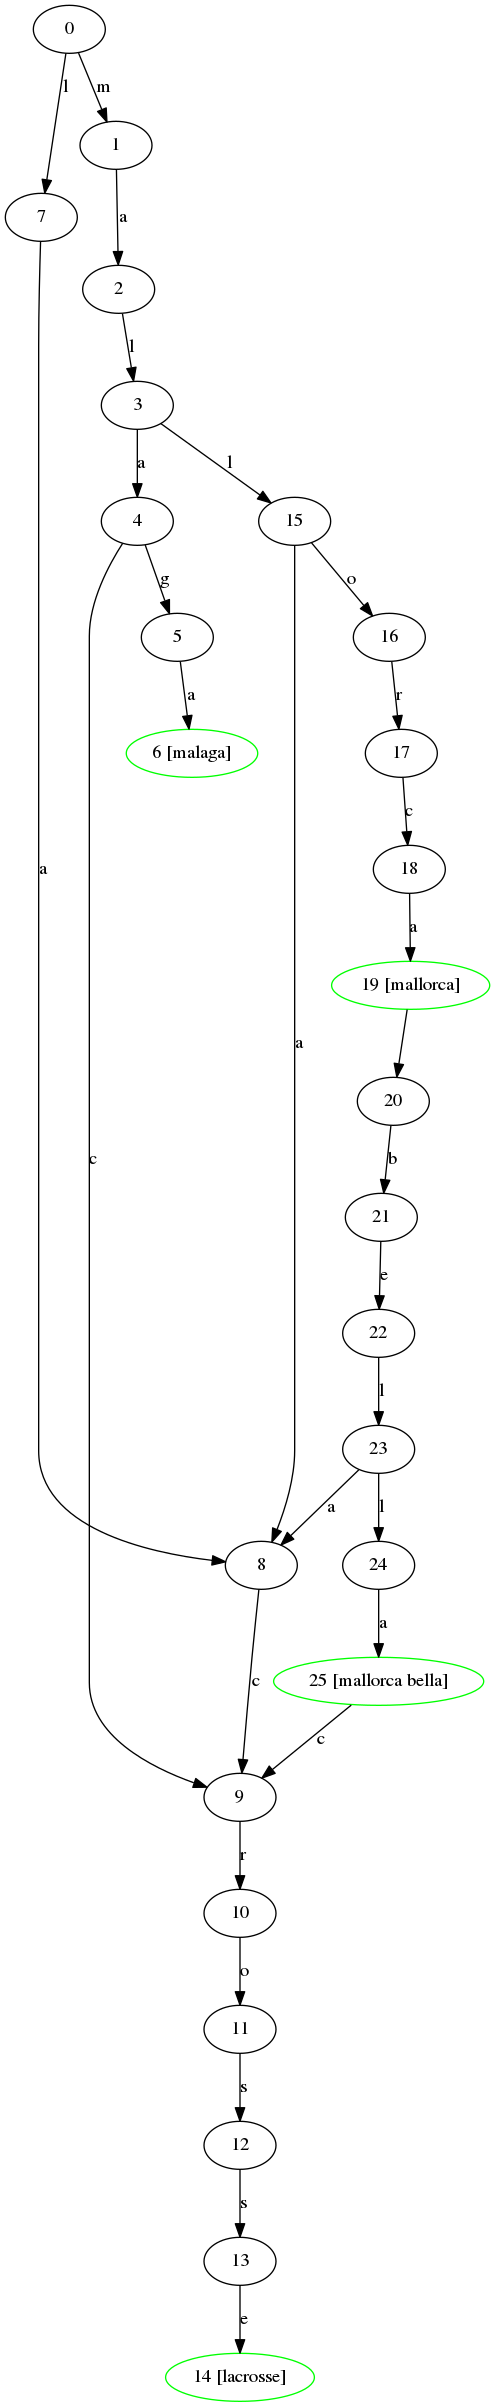
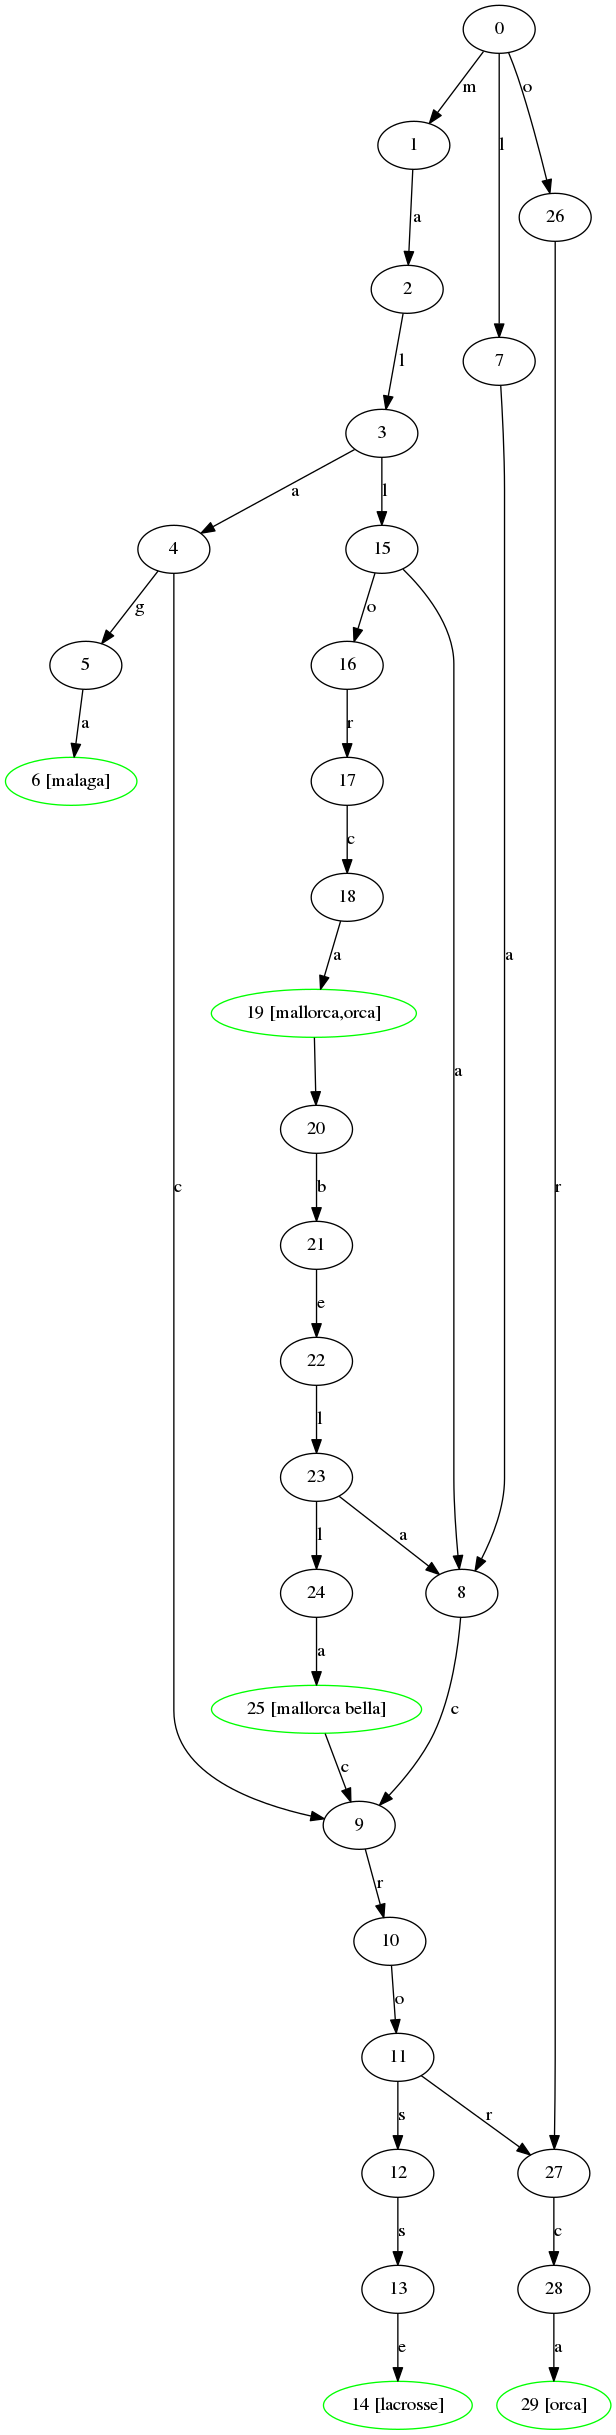
Implemented search_all (including overlaps)

diff --git a/src/ahocorapy/keywordtree.py b/src/ahocorapy/keywordtree.py
@@ -18,7 +18,7 @@ from builtins import object
 
 class State(object):
     __slots__ = ['identifier', 'symbol', 'success', 'transitions', 'parent',
-                 'matched_keyword', 'longest_strict_suffix']
+                 'matched_keywords', 'longest_strict_suffix']
 
     def __init__(self, identifier, symbol=None,  parent=None, success=False):
         self.symbol = symbol
@@ -26,7 +26,7 @@ class State(object):
         self.transitions = {}
         self.parent = parent
         self.success = success
-        self.matched_keyword = None
+        self.matched_keywords = []
         self.longest_strict_suffix = None
 
 
@@ -74,7 +74,7 @@ class KeywordTree(object):
                 current_state.transitions[char] = next_state
                 current_state = next_state
         current_state.success = True
-        current_state.matched_keyword = original_keyword
+        current_state.matched_keywords.append(original_keyword)
 
     def search(self, text):
         '''
@@ -84,30 +84,22 @@ class KeywordTree(object):
 
     def search_one(self, text):
         '''
-        Search a text for any occurence of a keyword.
+        Search a text for any occurence of any added keyword.
         Returns when one keyword has been found.
         Can only be called after finalized() has been called.
         O(n) with n = len(text)
         @return: 2-Tuple with keyword and startindex in text.
                  Or None if no keyword was found in the text.
         '''
-        if not self._finalized:
-            raise ValueError('KeywordTree has not been finalized.' +
-                             ' No search allowed. Call finalize() first.')
-        if self._case_insensitive:
-            text = text.lower()
-        current_state = self._zero_state
-        for idx, symbol in enumerate(text):
-            current_state = current_state.transitions.get(
-                symbol, self._zero_state.transitions.get(symbol,
-                                                         self._zero_state))
-            if current_state.success:
-                keyword = current_state.matched_keyword
-                return (keyword, idx + 1 - len(keyword))
+        result_gen = self.search_all(text)
+        try:
+            return next(result_gen)
+        except StopIteration:
+            return None
 
     def search_all(self, text):
         '''
-        Search a text for any occurence of a keyword.
+        Search a text for all occurences of the added keywords.
         Can only be called after finalized() has been called.
         O(n) with n = len(text)
         @return: Generator used to iterate over the results.
@@ -124,8 +116,8 @@ class KeywordTree(object):
                 symbol, self._zero_state.transitions.get(symbol,
                                                          self._zero_state))
             if current_state.success:
-                keyword = current_state.matched_keyword
-                yield (keyword, idx + 1 - len(keyword))
+                for keyword in current_state.matched_keywords:
+                    yield (keyword, idx + 1 - len(keyword))
 
     def finalize(self):
         '''
@@ -172,10 +164,13 @@ class KeywordTree(object):
                     if traversed.longest_strict_suffix is None:
                         self.search_lss(traversed)
                     traversed = traversed.longest_strict_suffix
+                    
+            if state.longest_strict_suffix.success:
+                state.success = True
+                state.matched_keywords.extend(state.longest_strict_suffix.matched_keywords)
 
             for symbol, next_state in\
                     state.longest_strict_suffix.transitions.items():
                 if (symbol not in state.transitions and
-                        state.longest_strict_suffix != self._zero_state)\
-                        or next_state.success:
+                        state.longest_strict_suffix != self._zero_state):
                     state.transitions[symbol] = next_state

diff --git a/tests/ahocorapy_test.py b/tests/ahocorapy_test.py
@@ -43,6 +43,7 @@ class TestAhocorapy(unittest.TestCase):
         kwtree.add('lacrosse')
         kwtree.add('mallorca')
         kwtree.add('mallorca bella')
+        kwtree.add('orca')
         kwtree.finalize()
 
         result = kwtree.search('My favorite islands are malaga and sylt.')
@@ -55,6 +56,7 @@ class TestAhocorapy(unittest.TestCase):
         results = kwtree.search_all('malheur on mallorca bellacrosse')
         self.assertIsNotNone(results)
         self.assertEqual(('mallorca', 11), next(results))
+        self.assertEqual(('orca', 15), next(results))
         self.assertEqual(('mallorca bella', 11), next(results))
         self.assertEqual(('lacrosse', 23), next(results))
         with self.assertRaises(StopIteration):

diff --git a/tests/visualizer_test.py b/tests/visualizer_test.py
@@ -14,17 +14,8 @@ class TestAhocorapyVisualizer(unittest.TestCase):
         kwtree.add('lacrosse')
         kwtree.add('mallorca')
         kwtree.add('mallorca bella')
+        kwtree.add('orca')
         kwtree.finalize()
-
-        result = kwtree.search('My favorite islands are malaga and sylt.')
-        self.assertEqual(('malaga', 24), result)
-
-        result = kwtree.search(
-            'idontlikewhitespaceswhereismalacrossequestionmark')
-        self.assertEqual(('lacrosse', 29), result)
-
-        result = kwtree.search('crossing on mallorca bella')
-        self.assertEqual(('mallorca', 12), result)
 
         visualizer = Visualizer()
         visualizer.draw('readme_example.png', kwtree)

diff --git a/src/ahocorapy_visualizer/visualizer.py b/src/ahocorapy_visualizer/visualizer.py
@@ -17,7 +17,7 @@ class Visualizer(object):
                     state.identifier,
                     color='green',
                     label=str(state.identifier) + ' [' +
-                    state.matched_keyword + ']')
+                    ','.join(state.matched_keywords) + ']')
         else:
             graph.add_node(state.identifier)
         added_state_ids.add(state.identifier)

diff --git a/README.md b/README.md
@@ -25,10 +25,7 @@ suitable for really large sets of keywords') which really was the case the last 
 ### Differences
 
 - Compared to [pyahocorasick](https://github.com/WojciechMula/pyahocorasick/) our library supports unicode in python 2.7 just like [py-aho-corasick](https://github.com/JanFan/py-aho-corasick).
-We don't use any C-Extension so the library is not platform dependant. 
-
-- We don't look for multiple results, we are okay with finding only one. We might extend this in the future. 
-For our use cases that was sufficient and helps with performance.
+We don't use any C-Extension so the library is not platform dependant.
 
 - On top of the standard Aho-Corasick longest suffix search, we also perform a shortcutting routine in the end, so
 that our lookup is fast while, the setup takes longer. During set up we go through the states and directly add transitions that are
@@ -108,6 +105,7 @@ for result in results:
 Prints :
 ```python
 ('mallorca', 11)
+('orca', 15)
 ('mallorca bella', 11)
 ('lacrosse', 23)
 ```
